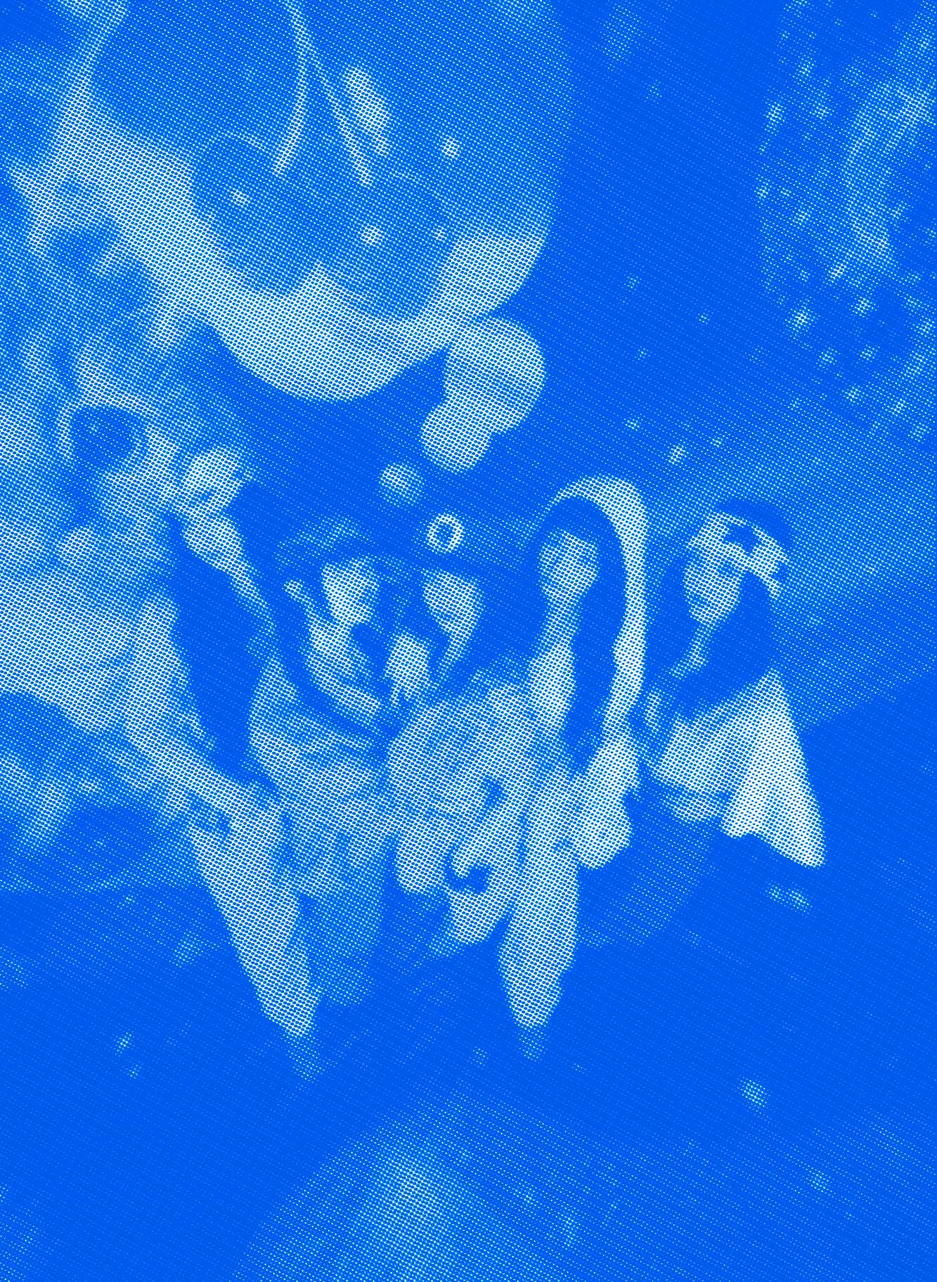
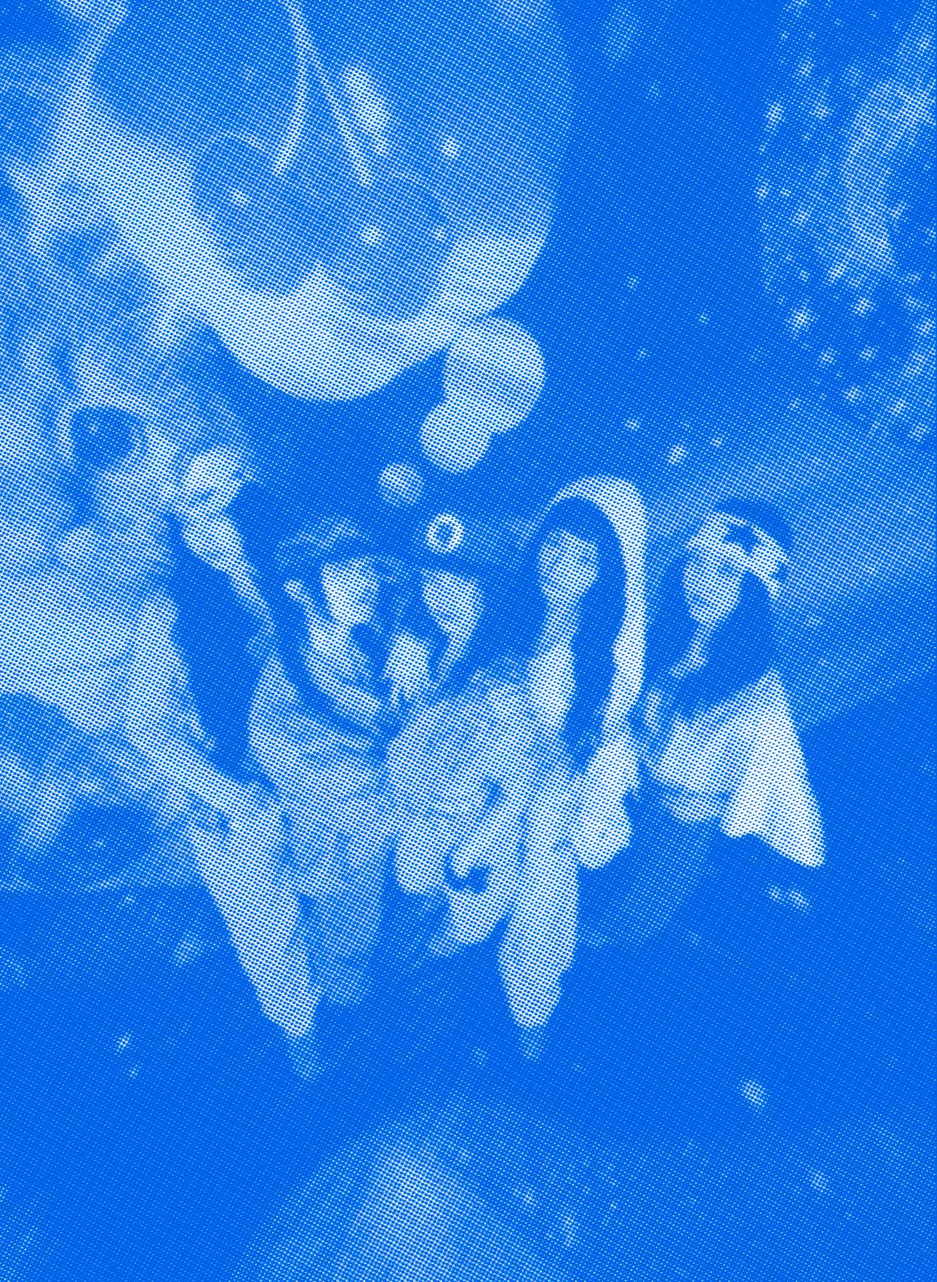
newjeans_last

diff --git a/p_NewJeans/css/index.css b/p_NewJeans/css/index.css
@@ -89,8 +89,6 @@ nav .on {
 #playlist {
   position: absolute;
   bottom: 40px;
-  left: 50%;
-  transform: translateX(-50%);
 }
 #playlist .play_container {
   display: flex;
@@ -696,45 +694,59 @@ nav .on {
     display: none;
   }
   #intro .logo_box {
-    top: 44%;
+    top: 3%;
   }
-  #intro .logo_box .logo_mobile {
+  #intro .logo_box .logo_pc {
     display: none;
   }
   #playlist {
-    width: 100%;
+    position: absolute;
+    bottom: 0;
+    right: 0;
+    width: 317px;
+    height: 86px;
+    background: #000;
+    border: 1px solid var(--main-color);
+    z-index: 10;
   }
   #playlist .play_container {
-    justify-content: center;
+    display: flex;
+    flex-direction: column;
+    align-items: center;
+  }
+  #playlist .play_container .play_view {
+    justify-content: flex-start;
+    width: 100%;
+    height: 36px;
+    border-bottom: 1px solid var(--main-color);
   }
   #playlist .play_container .cd_icon {
     width: 38px;
     height: 38px;
-    margin-right: 10px;
-  }
-  #playlist .play_container .play_song {
-    width: 200px;
+    padding: 8px;
+    margin: 0;
   }
   #playlist .play_container .play_song p {
     font-size: 16px;
+    font-weight: 300;
+    color: var(--main-color);
   }
-  #playlist .play_container .btns {
-    margin-left: 24px;
-  }
-  #playlist .play_container .btns li {
-    width: 60px;
+  #contents_container {
+    margin-top: -88px;
   }
   nav {
-    justify-content: center;
+    justify-content: flex-start;
     font-size: 0;
   }
   nav button {
     display: inline-block;
-    background: none;
-    font-size: 24px;
-    border-right: 2px solid var(--main-color);
     padding: 30px;
+    background: #000;
+    border-right: 2px solid var(--main-color);
+    border-top: 2px solid var(--main-color);
+    border-bottom: 2px solid var(--main-color);
     font-size: 20px;
+    box-sizing: content-box;
   }
   nav button:nth-child(1) {
     border-left: 2px solid var(--main-color);
@@ -876,6 +888,7 @@ nav .on {
   nav button {
     padding: 30px 40px;
     font-size: 24px;
+    background: #000;
   }
   #intro .pc {
     display: block;
@@ -887,6 +900,18 @@ nav .on {
   }
   #intro .logo_box {
     top: 40px;
+  }
+  #intro .logo_box .logo_pc {
+    display: block;
+  }
+  #intro .logo_box .logo_mobile {
+    display: none;
+  }
+  #playlist {
+    height: 90px;
+  }
+  #contents_container {
+    margin-top: -93px;
   }
   .tab_content .text .hour {
     display: block;
@@ -924,7 +949,7 @@ nav .on {
     top: 40px;
   }
   #contents_container {
-    margin-top: -92px;
+    margin-top: -94px;
   }
   .tab_content {
     padding: 60px 40px;
@@ -934,7 +959,6 @@ nav .on {
   }
   #playlist .play_container {
     justify-content: flex-end;
-    width: calc(100% - 40px);
   }
   #gallery .gallery_inner {
     gap: 20px;
@@ -954,6 +978,34 @@ nav .on {
   }
 }
 @media screen and (min-width: 1520px) {
+  #playlist {
+    width: auto;
+    height: auto;
+    right: 40px;
+    bottom: 27px;
+  }
+  #playlist .play_container {
+    justify-content: flex-end;
+    flex-direction: row;
+  }
+  #playlist .play_container .cd_icon {
+    width: 38px;
+    height: 38px;
+  }
+  #playlist .play_container .play_view {
+    width: 280px;
+    border: none;
+    border-right: 2px solid var(--main-color);
+  }
+  #playlist .play_container .play_song {
+    width: 200px;
+  }
+  #playlist .play_container .play_song p {
+    font-size: 16px;
+  }
+  #playlist .play_container .btns li {
+    width: 60px;
+  }
   #gallery #gallery_img_container {
     width: calc(100% - 240px);
   }

diff --git a/p_NewJeans/css/scss/index.scss b/p_NewJeans/css/scss/index.scss
@@ -85,8 +85,6 @@ nav {
 #playlist {
   position: absolute;
   bottom: 40px;
-  left: 50%;
-  transform: translateX(-50%);
   .play_container {
     display: flex;
     align-items: center;
@@ -718,45 +716,61 @@ nav {
       display: none;
     }
     .logo_box{
-      top: 44%;
-      .logo_mobile{
+      top: 3%;
+      .logo_pc{
         display: none;
       }
     }
   }
   #playlist {
-    width: 100%;
+    position: absolute;
+    bottom: 0;
+    right: 0;
+    width: 317px;
+    height: 86px;
+    background: #000;
+    border: 1px solid var(--main-color);
+    z-index: 10;
     .play_container {
-      justify-content: center;
+      display: flex;
+      flex-direction: column;
+      align-items: center;
+      .play_view {
+        justify-content: flex-start;
+        width: 100%;
+        height: 36px;
+        border-bottom: 1px solid var(--main-color);
+      }
       .cd_icon {
         width: 38px;
         height: 38px;
-        margin-right: 10px;
+        padding: 8px;
+        margin: 0;
       }
       .play_song {
-        width: 200px;
         p {
           font-size: 16px;
-        }
-      }
-      .btns {
-        margin-left: 24px;
-        li {
-          width: 60px;
+          font-weight: 300;
+          color: var(--main-color);
         }
       }
     }
   }
+  #contents_container{
+    margin-top: -88px;
+  }
   nav {
-    justify-content: center;
+    justify-content: flex-start;
     font-size: 0;
     button {
       display: inline-block;
-      background: none;
-      font-size: 24px;
-      border-right: 2px solid var(--main-color);
       padding: 30px;
+      background: #000;
+      border-right: 2px solid var(--main-color);
+      border-top: 2px solid var(--main-color);
+      border-bottom: 2px solid var(--main-color);
       font-size: 20px;
+      box-sizing: content-box;
       &:nth-child(1) {
         border-left: 2px solid var(--main-color);
       }
@@ -912,6 +926,7 @@ nav {
     button {
       padding: 30px 40px;
       font-size: 24px;
+      background: #000;
     }
   }
   #intro{
@@ -925,7 +940,19 @@ nav {
     }
     .logo_box {
       top: 40px;
+      .logo_pc{
+        display: block;
+      }
+      .logo_mobile{
+        display: none;
+      }
     }
+  }
+  #playlist {
+    height: 90px;
+  }
+  #contents_container {
+    margin-top: -93px;
   }
   .tab_content .text {
     .hour {
@@ -974,7 +1001,7 @@ nav {
     }
   }
   #contents_container{
-    margin-top: -92px;
+    margin-top: -94px;
   }
   .tab_content {
     padding: 60px 40px;
@@ -985,7 +1012,6 @@ nav {
   #playlist {
     .play_container {
       justify-content: flex-end;
-      width: calc(100% - 40px);
     }
   }
   #gallery {
@@ -1009,6 +1035,36 @@ nav {
 }
 // ---------
 @media screen and (min-width: 1520px) {
+  #playlist {
+    width: auto;
+    height: auto;
+    right: 40px;
+    bottom: 27px;
+    .play_container {
+      justify-content: flex-end;
+      flex-direction: row;
+      .cd_icon {
+        width: 38px;
+        height: 38px;
+      }
+      .play_view{
+        width: 280px;
+        border: none;
+        border-right: 2px solid var(--main-color);
+      }
+      .play_song {
+        width: 200px;
+        p {
+          font-size: 16px;
+        }
+      }
+      .btns {
+        li {
+          width: 60px;
+        }
+      }
+    }
+  }
   #gallery {
     #gallery_img_container {
       width: calc(100% - 240px);

diff --git a/p_NewJeans/index.html b/p_NewJeans/index.html
@@ -37,7 +37,7 @@ https://cdn.jsdelivr.net/npm/reset-css@5.0.2/reset.min.css
       <section id="intro">
         <div class="img_box">
           <img class="pc" src="./img/intro_pc.jpg" alt="슈퍼내추럴 이미지" />
-          <img class="mobile" src="./img/mobb.jpg" alt="슈퍼내추럴 이미지" />
+          <img class="mobile" src="./img/intro_mo.jpg" alt="슈퍼내추럴 이미지" />
         </div>
         <div class="logo_box">
           <img class="logo_pc" src="./img/logo3.svg" alt="" />
